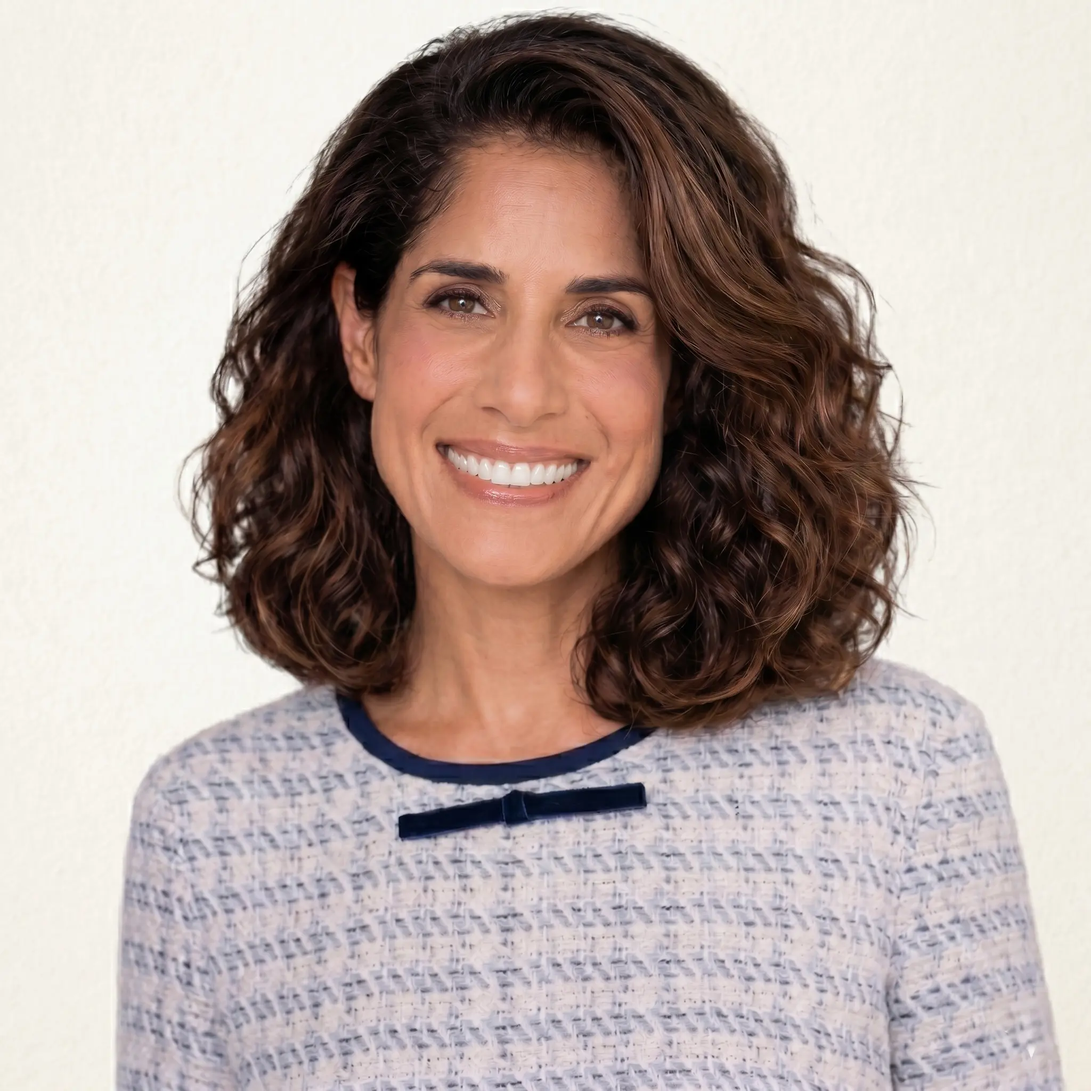
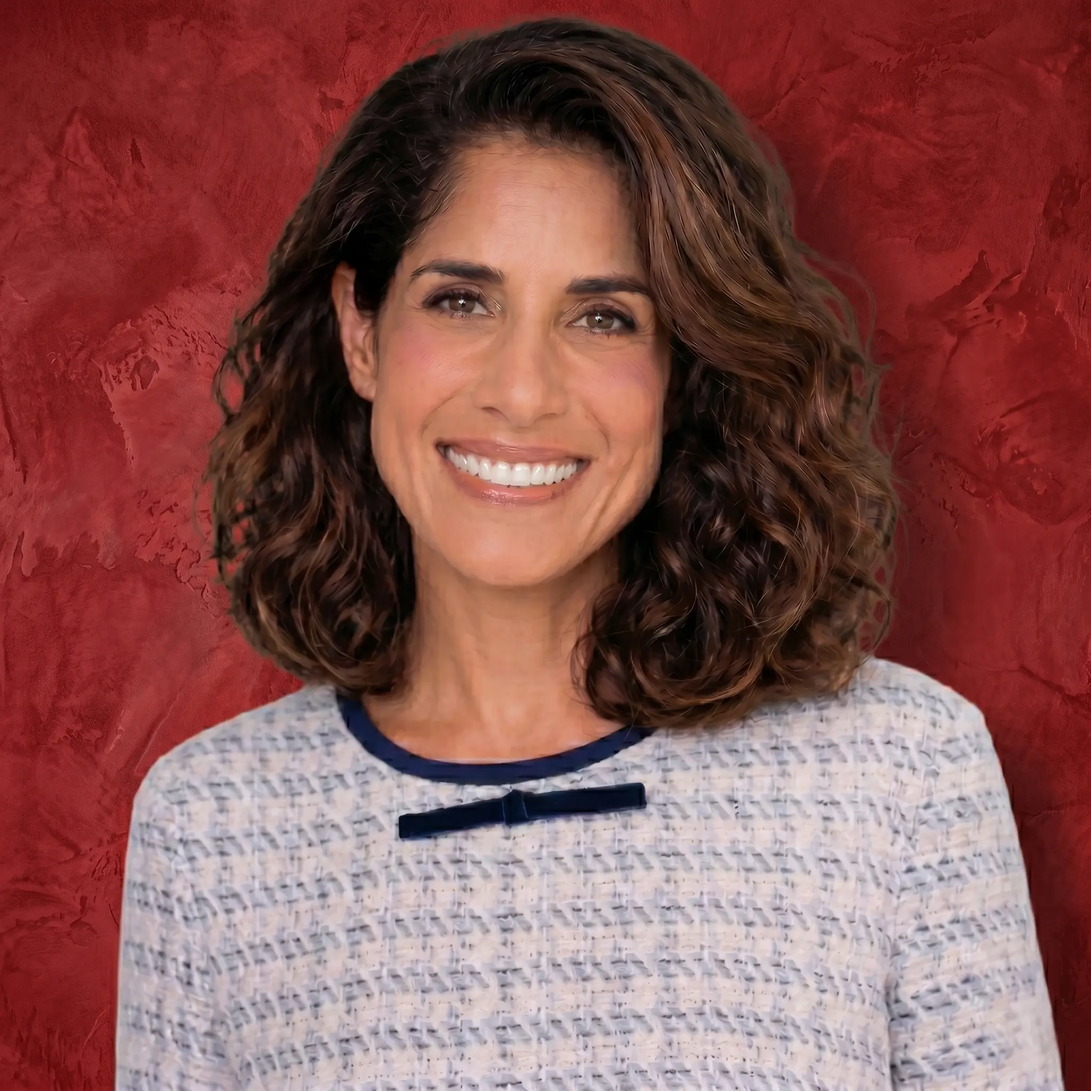
fix: adjust typography and translations for German localization

diff --git a/src/context/LanguageContext.jsx b/src/context/LanguageContext.jsx
@@ -25,8 +25,9 @@ const translations = {
     "Scroll to explore": "Zum Erkunden scrollen",
 
     // BordersSection
-    "Swiss coverage is": "Schweizer Abdeckung ist",
-    "absolute": "absolut",
+    "Swiss coverage is": "Die Schweizweite Abdeckung ist",
+    "absolute": "vollständig.",
+    "Nationwide": "im ganzen Land",
     "Our infrastructure is optimized exclusively for the Swiss landscape. From Geneva to Zurich, Lugano to Basel, we provide flawless fulfillment tailored perfectly to Switzerland's unique multi-language cantons.": "Unsere Infrastruktur ist exklusiv für die Schweizer Landschaft optimiert. Von Genf bis Zürich, von Lugano bis Basel bieten wir ein makelloses Fulfillment, das perfekt auf die einzigartigen mehrsprachigen Kantone der Schweiz zugeschnitten ist.",
     "SWISS MULTI-LANGUAGE ARCHITECTURE": "SCHWEIZER MEHRSPRACHIGE ARCHITEKTUR",
 

diff --git a/src/components/Testimonial.jsx b/src/components/Testimonial.jsx
@@ -32,10 +32,10 @@ const Testimonial = () => {
             initial={{ opacity: 0, y: 20 }}
             whileInView={{ opacity: 1, y: 0 }}
             viewport={{ once: true }}
-            className="text-2xl md:text-4xl font-medium text-swiss-dark leading-[1.25] mb-8 italic transition-colors"
+            className="text-2xl md:text-4xl font-bold text-swiss-dark leading-[1.25] mb-8 italic transition-colors"
           >
-            "{t('We deliver more than products.')}<br />
-            {t('We provide trust, efficiency and growth.')}"
+            {t('We deliver more than products.')}<br />
+            {t('We provide trust, efficiency and growth.')}
           </motion.h2>
 
           {/* Supportive Statement Paragraphs */}

diff --git a/src/pages/Solutions.jsx b/src/pages/Solutions.jsx
@@ -87,9 +87,9 @@ const Solutions = () => {
             initial={{ opacity: 0, y: 20 }}
             animate={{ opacity: 1, y: 0 }}
             transition={{ delay: 0.2 }}
-            className="text-xl text-swiss-dark/70 max-w-2xl leading-relaxed transition-colors italic font-medium"
+            className="text-xl text-swiss-dark/70 max-w-2xl leading-relaxed transition-colors italic font-bold"
           >
-            "{t('We deliver more than products. We provide trust, efficiency and growth.')}"
+            {t('We deliver more than products. We provide trust, efficiency and growth.')}
           </motion.p>
         </div>
       </section>

diff --git a/src/components/MetricsSection.jsx b/src/components/MetricsSection.jsx
@@ -8,7 +8,7 @@ const MetricsSection = () => {
   const metrics = [
     { value: "24/7", isNumeric: false, label: t("MISSION-CRITICAL SUPPORT") },
     { value: "99.9", suffix: "%", isNumeric: true, label: t("ORDER ACCURACY RATE"), color: "text-swiss-red" },
-    { value: "Nationwide", isNumeric: false, label: t("STRATEGIC REACH") }
+    { value: t("Nationwide"), isNumeric: false, label: t("STRATEGIC REACH") }
   ];
 
 
